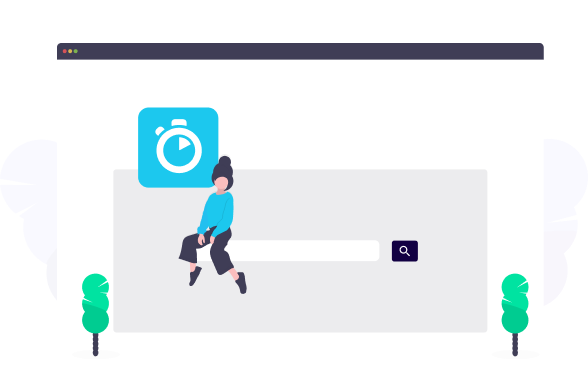
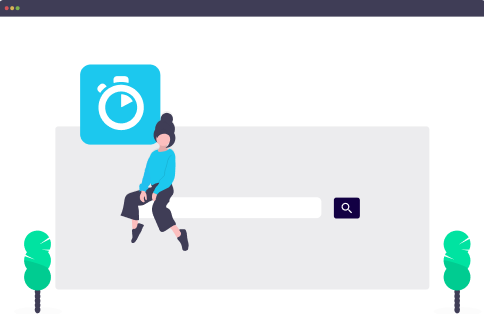
change ui in home page

diff --git a/src/pages/home/index.jsx b/src/pages/home/index.jsx
@@ -8,7 +8,7 @@ import banner from '@/assets/home/banner_img.png';
 import info1 from '@/assets/home/info1.png';
 import info2 from '@/assets/home/info2.png';
 import info3 from '@/assets/home/info3.png';
-import info4 from '@/assets/home/info4.png';
+// import info4 from '@/assets/home/info4.png';
 import logo1 from '@/assets/home/logo1.webp';
 import logo2 from '@/assets/home/logo2.webp';
 import logo3 from '@/assets/home/logo3.webp';
@@ -38,26 +38,26 @@ const homeText = {
     title: 'Trusted byTrusted by leading Developers & Studios',
   },
   easySimple: {
-    title: 'Easy Simple Way to Get Your Game’s Audience',
+    title: 'Just a few simple steps to access your custom audiences!',
     content: [
       {
         title: '1. Register',
-        describe: 'Fill out your name，phone and email then get started',
+        describe: 'Fill out your name, phone and email to get started right away!',
         icon: step1,
       },
       {
         title: '2. Input Keyword',
-        describe: 'Input any keyword and we generate audience for you',
+        describe: 'Input your keywords and our engine generates audiences for you',
         icon: step2,
       },
       {
         title: '3. Save Audience',
-        describe: 'Save the keyword group foe tracking later',
+        describe: 'View and edit your audiences and save for tracking',
         icon: step3,
       },
       {
         title: '4. Manage Audience',
-        describe: 'Manage your winner and extend from there',
+        describe: 'Manage your winning audiences and extend them for further success!',
         icon: step4,
       },
     ],
@@ -72,25 +72,30 @@ const Home = ({userInfo, httpLoading, setHttpLoading}) => {
           <div className="text-h3">Bring from Your success
           </div>
           <div className="text-p">
-            Discover audiences directly correlated and built from successful campaigns. Our audience intelligence engine
-            processes affinity data to deliver accuracy and range for your ongoing or next campaign.
+            Discover audiences built from your successful UA ad campaigns.
+            Our audience intelligence engine processes affinity data to deliver
+            accuracy and range for your current and future campaigns.
           </div>
         </div>);
       case 2:
         return (<div style={{marginTop: 32}}>
           <div className="text-h3">Discover hidden gems</div>
           <div className="text-p">
-            Every type of player is unique, and each player’s interests broadly deviate from one another. Access our
-            audience extension and lookalike audience features to find unique interests and audiences to build a robust
-            campaign strategy that scales.
+            Every player’s interests overlap in part and deviate in others,
+            creating opportunities to discover their unique potential for acquisition or for creative inspiration.
+            Access our audience extension and lookalike audience features to find unique interests and audiences
+            to build a robust campaign strategy that scales.
           </div>
         </div>);
       case 3:
         return (<div style={{marginTop: 32}}>
-          <div className="text-h3">Dynamic Audience</div>
+          <div className="text-h3">Utilize Dynamic Audiences</div>
           <div className="text-p">
-            Discover audiences directly correlated and built from successful campaigns. Our audience intelligence engine
-            processes affinity data to deliver accuracy and range for your ongoing or next campaign.
+            Audience interests change and evolve with real-world events and industry progression.
+            Affinity Analyst’s audience intelligence engine is built to dynamically process
+            audience parameters and consolidate multiple key social media
+            platform content and features - enabling sustainable audience hotspot discovery,
+            serving your creative and live operations at a fraction of the time for a fraction of the cost.
           </div>
         </div>);
       case 4:
@@ -127,7 +132,7 @@ const Home = ({userInfo, httpLoading, setHttpLoading}) => {
                 <img style={{width: 64}} src={icon1}/>
                 <div className="card-title">AI Enabled</div>
                 <div className="card-info">
-                      We deploy AI to drive processing time, breadth, and accuracy of correlative inferences
+                  We deploy AI to drive processing time, breadth, and accuracy of correlative inferences
                 </div>
 
               </Card>
@@ -135,20 +140,20 @@ const Home = ({userInfo, httpLoading, setHttpLoading}) => {
             <Col className="marginB64" lg={8} md={0} sm={0} xs={0}>
               <Card hoverable className="text-center Cards">
                 <img style={{width: 64}} src={icon2}/>
-                <div className="card-title">Digital Anthropology</div>
+                <div className="card-title">Digital Anthropology&trade;</div>
                 <div className="card-info">
-                  We contextualize the player metaverse to comprehend fundamentally with a Game industry-specific BI
-                  framework accurately and actionable insights
+                  We recreate accurate player-meta identities,
+                  recreating insightful real-time narratives and actionable insights
                 </div>
               </Card>
             </Col>
             <Col className="marginB64" lg={8} md={0} sm={0} xs={0}>
               <Card hoverable className="text-center Cards">
                 <img style={{width: 64}} src={icon3}/>
-                <div className="card-title">Social Data Mesh</div>
+                <div className="card-title">Social Data Mesh&trade;</div>
                 <div className="card-info">
-                  We process directly related content across multiple social media content sources, integrate to our
-                  data consolidation mesh to engage dynamically and evolve with player real-world interests
+                  We utilize our player data consolidation mesh,
+                  allowing you to engage dynamically and evolve with your players in real-time
                 </div>
               </Card>
             </Col>
@@ -205,37 +210,37 @@ const Home = ({userInfo, httpLoading, setHttpLoading}) => {
       <Content className="bg-white">
         <div className="home-content marginTop90">
           <Row gutter={64}>
+            <Col span={12} className="text-left">
+              <img src={info1} alt="banner" style={{width: '80%'}}/>
+            </Col>
             <Col span={12} className="padding16">
               {feature(1)}
             </Col>
-            <Col span={12} className="text-right">
-              <img src={info1} alt="banner" style={{width: '80%'}}/>
-            </Col>
           </Row>
           <Row gutter={64} className="marginTop90">
-            <Col span={12} className="text-left">
-              <img src={info2} alt="banner" style={{width: '80%'}}/>
-            </Col>
             <Col span={12} className="padding16">
               {feature(2)}
             </Col>
-          </Row>
-          <Row gutter={64} className="marginTop90 ">
-            <Col span={12} className="padding16">
-              {feature(3)}
-            </Col>
             <Col span={12} className="text-right">
-              <img src={info3} alt="banner" style={{width: '80%'}}/>
+              <img src={info2} alt="banner" style={{width: '80%'}}/>
             </Col>
           </Row>
           <Row gutter={64} className="marginTop90 paddingB90">
             <Col span={12} className="text-left">
-              <img src={info4} alt="banner" style={{width: '80%'}}/>
+              <img src={info3} alt="banner" style={{width: '80%'}}/>
             </Col>
             <Col span={12} className="padding16">
-              {feature(4)}
+              {feature(3)}
             </Col>
           </Row>
+          {/* <Row gutter={64} className="marginTop90 paddingB90">*/}
+          {/*  <Col span={12} className="padding16">*/}
+          {/*    {feature(4)}*/}
+          {/*  </Col>*/}
+          {/*  <Col span={12} className="text-right">*/}
+          {/*    <img src={info4} alt="banner" style={{width: '80%'}}/>*/}
+          {/*  </Col>*/}
+          {/* </Row>*/}
         </div>
       </Content>
       <Content className="bg-white">

diff --git a/src/components/Headers.jsx b/src/components/Headers.jsx
@@ -27,7 +27,7 @@ const Headers=()=>{
             </Col>
           </Row>
         </Col>
-        <Col xl={24} lg={0} md={0} sm={0} xs={0}>
+        <Col offset={1} xl={22} lg={0} md={0} sm={0} xs={0}>
           <Row className="content-home paddingL16 paddingR16" >
             <Col span={8}>
               <div className="text-left">
@@ -36,9 +36,9 @@ const Headers=()=>{
             </Col>
             <Col span={16} className="text-right">
               <Space size="large">
-                <Link to='/' className="navs">Product</Link>
-                <Link to='/dashboard/audienceGenerator'
-                  className="navs">About</Link>
+                <Link to='/' className="navs">Home</Link>
+                {/* <Link to='/dashboard/audienceGenerator'*/}
+                {/*  className="navs">About</Link>*/}
                 <Link to='/plansPricing' className="navs">Plans & Pricing</Link>
                 <Link to='/contactUs' className="navs">Contact Sales</Link>
                 <span className="navs">|</span>

diff --git a/src/layout/index.jsx b/src/layout/index.jsx
@@ -148,7 +148,7 @@ const Customlayout = ({history, activeKey, setLogged}) => {
           trigger={null}
         >
           <div className="logoBox">
-            <img src={logo} width={168}/>
+            <a href="/"><img src={logo} width={168}/></a>
           </div>
           <Menus/>
         </Sider>
@@ -166,7 +166,7 @@ const Customlayout = ({history, activeKey, setLogged}) => {
                     <AlertOutlined style={{fontSize: 16}}/>
                   </Popover>
                 </Badge>
-                {!isPayUser&&( <Button type="primary" onClick={() => {
+                {!isPayUser&&( <Button type="primary" className="btn-md" onClick={() => {
                   store.dispatch(setMenusData('plansAndPrices', ''));
                 }} >
                   <Link to='/plansAndPrices' >Upgrade</Link>

diff --git a/src/pages/home/style.css b/src/pages/home/style.css
@@ -63,7 +63,7 @@
 .navButton{
   min-width: 114px;
 
-  height: 38px;
+  height: 36px;
   line-height: 34px!important;
 }
 
@@ -311,10 +311,10 @@
   margin-top: 0!important;
 }
 .Cards{
-  height: 340px ;
+  height: 300px ;
 }
 .banner-img{
-  width: 130%;
+  width: 100%;
 }
 @media screen and (min-width: 1160px) and (max-width: 1260px) {
   .banner-img{
@@ -327,7 +327,7 @@
 }
 @media screen and (min-width: 1040px) and (max-width: 1160px) {
   .banner-img{
-    width: 108%;
+    width: 100%;
   }
 
   .banner {
@@ -352,4 +352,23 @@
   .banner-img{
     width: 100%;
   }
+}
+
+.btn-xl{
+  height: 58px;
+  min-width: 200px;
+}
+.btn-lg{
+  height: 40px;
+  min-width: 160px;
+}
+.btn-md{
+  height:  36px;
+  min-width: 112px;
+  font-size: 13px;
+}
+.btn-sm{
+  height: 32px;
+  min-width: 84px;
+  font-size: 12px;
 }
